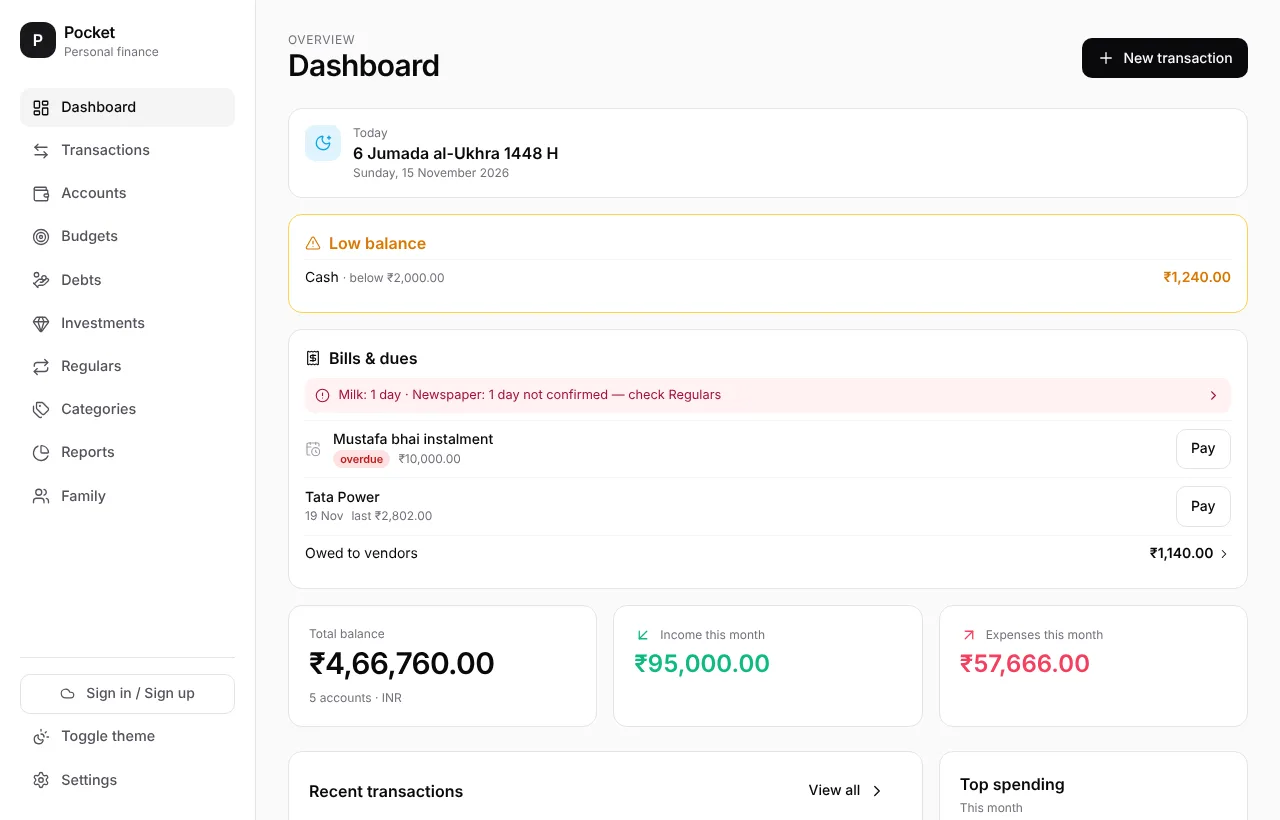
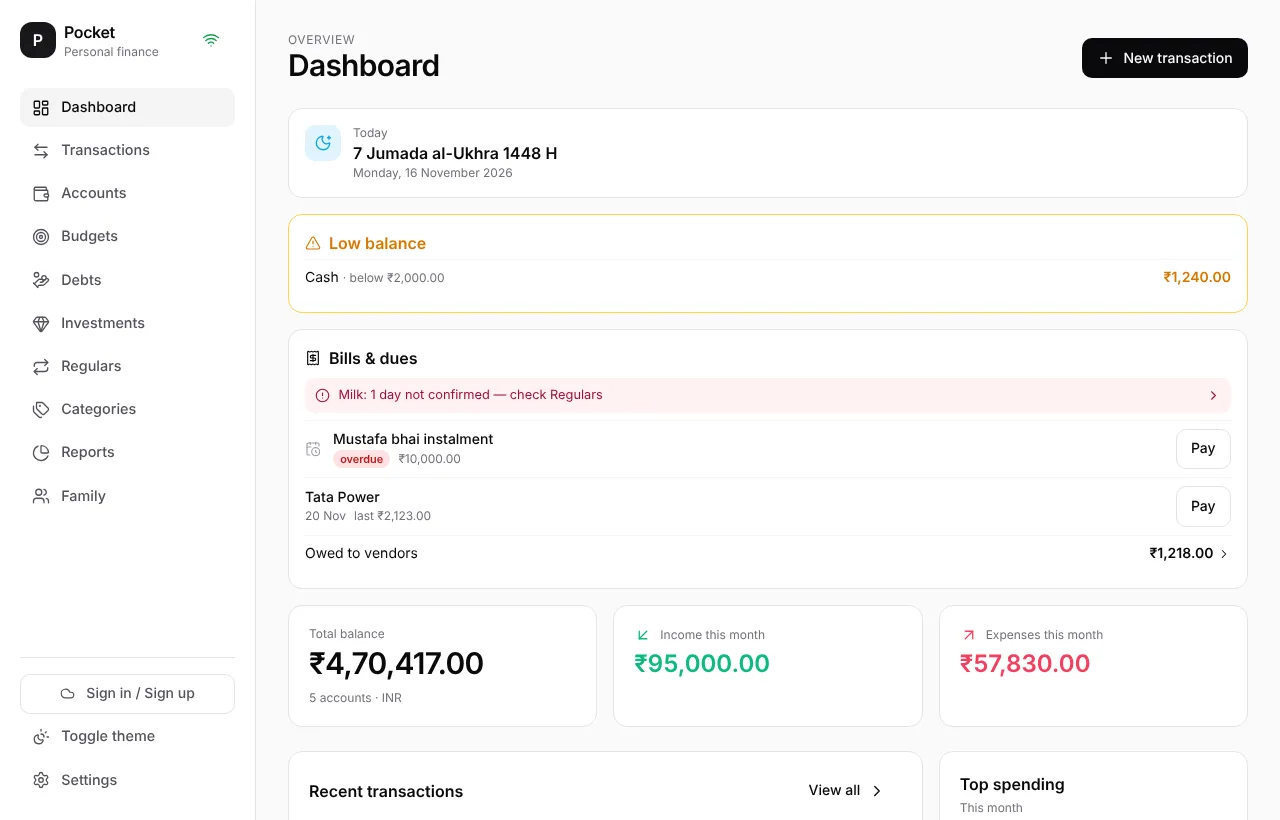
Investments: "Bought" / "Sold" instead of Buy / Sell; new homepage pictures
The buttons note a purchase or sale made elsewhere, so they now say so:
Bought / Sold, "Note a purchase · …", "Just bought it", and the help
says Pocket doesn't buy or sell anything itself. Homepage pictures
retaken from the demo (npm run shots).

Claude-Session: https://claude.ai/code/session_0179XaPTuzfqQxHAGVGkYim9

diff --git a/legacy-web/bundle.js b/legacy-web/bundle.js
@@ -12854,8 +12854,8 @@ This replaces your current grouping.`
         title: "Investments",
         intro: "The gold, silver and shares you own: how much, what you paid, and what it\u2019s worth today.",
         points: [
-          "<b>Add</b> it: pick gold, silver or shares. For gold and silver choose the purity; for shares type the company and its code (optional). Then choose <b>I already own it</b> or <b>Buying now</b>.",
-          "<b>Buy</b> and <b>Sell</b> move money between your account and your Investments account, with the grams or shares on the same entry. Add <b>Charges</b> (brokerage, making charges) and they count in what it cost you. Spending and budgets aren\u2019t affected.",
+          "<b>Add</b> it: pick gold, silver or shares. For gold and silver choose the purity; for shares type the company and its code (optional). Then choose <b>I already own it</b> or <b>Just bought it</b>.",
+          "<b>Bought</b> and <b>Sold</b> note a purchase or sale you made elsewhere (at a jeweller or through your broker): the money moves between your account and your Investments account, with the grams or shares on the same entry. Pocket doesn't buy or sell anything itself. Add <b>Charges</b> (brokerage, making charges) and they count in what it cost you. Spending and budgets aren\u2019t affected.",
           "Tap <b>Price</b> to enter today\u2019s price per gram or per share. Worth = how much you hold \xD7 price, and your total balance and net worth use it.",
           "For shares, tap <b>Dividend</b> when one is paid: it\u2019s saved as income and shown on the card.",
           "Set an alert, like <b>20%</b> gain or a target price. When the price reaches it you\u2019ll see it here and on the Dashboard.",
@@ -16798,8 +16798,8 @@ This replaces your current grouping.`
         ${st.dividends ? `<div class="text-xs text-emerald-600 mt-1 inv-dividends">Dividends received ${this.formatMoney(st.dividends, cur)}</div>` : ""}
         ${st.target !== null ? `<div class="text-xs text-zinc-500 mt-1 inv-target"><i data-lucide="bell" style="width:11px;height:11px;display:inline"></i> Alert at ${this.formatMoney(st.target, cur)} / ${k.per}${h.alert?.gainPct ? ` (+${h.alert.gainPct}%)` : ""}${st.reached ? ' \xB7 <span class="text-emerald-600">reached</span>' : ""}</div>` : ""}
         <div class="grid ${isShares ? "grid-cols-4" : "grid-cols-3"} gap-2 mt-3">
-          <button class="btn btn-outline btn-sm justify-center" onclick="window.__app.openModal('trade',{id:'${id}',mode:'buy'})"><i data-lucide="plus"></i> Buy</button>
-          <button class="btn btn-outline btn-sm justify-center" ${st.qty > 0 ? "" : "disabled"} onclick="window.__app.openModal('trade',{id:'${id}',mode:'sell'})"><i data-lucide="minus"></i> Sell</button>
+          <button class="btn btn-outline btn-sm justify-center" onclick="window.__app.openModal('trade',{id:'${id}',mode:'buy'})" title="Note something you bought elsewhere"><i data-lucide="plus"></i> Bought</button>
+          <button class="btn btn-outline btn-sm justify-center" ${st.qty > 0 ? "" : "disabled"} onclick="window.__app.openModal('trade',{id:'${id}',mode:'sell'})" title="Note something you sold elsewhere"><i data-lucide="minus"></i> Sold</button>
           <button class="btn btn-outline btn-sm justify-center" onclick="window.__app.openModal('holdingPrice',{id:'${id}'})"><i data-lucide="tag"></i> Price</button>
           ${isShares ? `<button class="btn btn-outline btn-sm justify-center inv-dividend-btn" onclick="window.__app.openModal('trade',{id:'${id}',mode:'dividend'})"><i data-lucide="banknote"></i> Dividend</button>` : ""}
         </div>
@@ -16892,7 +16892,7 @@ This replaces your current grouping.`
           </select>
         </div>
 
-        <div class="grid grid-cols-2 gap-2 mb-3">${how("own", "I already own it")}${how("buy", "Buying now")}</div>
+        <div class="grid grid-cols-2 gap-2 mb-3">${how("own", "I already own it")}${how("buy", "Just bought it")}</div>
 
         <div class="grid grid-cols-2 gap-3 mb-3">
           <div>
@@ -17038,7 +17038,7 @@ This replaces your current grouping.`
       return `
       <form onsubmit="window.__app.submitTrade(event,'${Html.escape(h.id)}','${sell ? "sell" : "buy"}')" class="p-5 trade-form">
         <div class="flex items-center justify-between mb-2">
-          <h3 class="text-lg font-semibold">${sell ? "Sell" : "Buy"} ${Html.escape(h.name)}</h3>${close}
+          <h3 class="text-lg font-semibold">${sell ? "Note a sale" : "Note a purchase"} \xB7 ${Html.escape(h.name)}</h3>${close}
         </div>
         <div class="text-xs text-zinc-500 mb-3">You hold ${HoldingService.qtyText(h, st.qty)} \xB7 average cost ${this.#fx.formatMoney(st.avgCost, h.currency)} / ${k.per}</div>
         <div class="grid grid-cols-3 gap-3 mb-3">
@@ -17070,7 +17070,7 @@ This replaces your current grouping.`
           </div>
         </div>
         <label class="flex items-center gap-2 text-sm mb-4"><input type="checkbox" name="setPrice" checked> Also use this as today\u2019s price</label>
-        ${footer(sell ? "Sell" : "Buy")}
+        ${footer(sell ? "Save sale" : "Save purchase")}
       </form>`;
     }
   };
@@ -27542,7 +27542,7 @@ Leave empty to use your own name.`,
       const qty = form.querySelector('[name="grams"]');
       if (qty) qty.step = shares ? "1" : "0.001";
     }
-    /** Add-investment form: "I already own it" / "Buying now". */
+    /** Add-investment form: "I already own it" / "Just bought it". */
     onHoldingHowChange(radio) {
       const form = radio.form;
       for (const el of form.querySelectorAll("[data-how]")) el.style.display = el.dataset.how === radio.value ? "" : "none";

diff --git a/legacy-web/src/ui/views/InvestmentsView.js b/legacy-web/src/ui/views/InvestmentsView.js
@@ -103,8 +103,8 @@ export class InvestmentsView extends BaseView {
         ${st.dividends ? `<div class="text-xs text-emerald-600 mt-1 inv-dividends">Dividends received ${this.formatMoney(st.dividends, cur)}</div>` : ''}
         ${st.target !== null ? `<div class="text-xs text-zinc-500 mt-1 inv-target"><i data-lucide="bell" style="width:11px;height:11px;display:inline"></i> Alert at ${this.formatMoney(st.target, cur)} / ${k.per}${h.alert?.gainPct ? ` (+${h.alert.gainPct}%)` : ''}${st.reached ? ' · <span class="text-emerald-600">reached</span>' : ''}</div>` : ''}
         <div class="grid ${isShares ? 'grid-cols-4' : 'grid-cols-3'} gap-2 mt-3">
-          <button class="btn btn-outline btn-sm justify-center" onclick="window.__app.openModal('trade',{id:'${id}',mode:'buy'})"><i data-lucide="plus"></i> Buy</button>
-          <button class="btn btn-outline btn-sm justify-center" ${st.qty > 0 ? '' : 'disabled'} onclick="window.__app.openModal('trade',{id:'${id}',mode:'sell'})"><i data-lucide="minus"></i> Sell</button>
+          <button class="btn btn-outline btn-sm justify-center" onclick="window.__app.openModal('trade',{id:'${id}',mode:'buy'})" title="Note something you bought elsewhere"><i data-lucide="plus"></i> Bought</button>
+          <button class="btn btn-outline btn-sm justify-center" ${st.qty > 0 ? '' : 'disabled'} onclick="window.__app.openModal('trade',{id:'${id}',mode:'sell'})" title="Note something you sold elsewhere"><i data-lucide="minus"></i> Sold</button>
           <button class="btn btn-outline btn-sm justify-center" onclick="window.__app.openModal('holdingPrice',{id:'${id}'})"><i data-lucide="tag"></i> Price</button>
           ${isShares ? `<button class="btn btn-outline btn-sm justify-center inv-dividend-btn" onclick="window.__app.openModal('trade',{id:'${id}',mode:'dividend'})"><i data-lucide="banknote"></i> Dividend</button>` : ''}
         </div>

diff --git a/legacy-web/src/ui/components/HelpGuide.js b/legacy-web/src/ui/components/HelpGuide.js
@@ -35,8 +35,8 @@ export class HelpGuide {
       title: 'Investments',
       intro: 'The gold, silver and shares you own: how much, what you paid, and what it’s worth today.',
       points: [
-        '<b>Add</b> it: pick gold, silver or shares. For gold and silver choose the purity; for shares type the company and its code (optional). Then choose <b>I already own it</b> or <b>Buying now</b>.',
-        '<b>Buy</b> and <b>Sell</b> move money between your account and your Investments account, with the grams or shares on the same entry. Add <b>Charges</b> (brokerage, making charges) and they count in what it cost you. Spending and budgets aren’t affected.',
+        '<b>Add</b> it: pick gold, silver or shares. For gold and silver choose the purity; for shares type the company and its code (optional). Then choose <b>I already own it</b> or <b>Just bought it</b>.',
+        '<b>Bought</b> and <b>Sold</b> note a purchase or sale you made elsewhere (at a jeweller or through your broker): the money moves between your account and your Investments account, with the grams or shares on the same entry. Pocket doesn\'t buy or sell anything itself. Add <b>Charges</b> (brokerage, making charges) and they count in what it cost you. Spending and budgets aren’t affected.',
         'Tap <b>Price</b> to enter today’s price per gram or per share. Worth = how much you hold × price, and your total balance and net worth use it.',
         'For shares, tap <b>Dividend</b> when one is paid: it’s saved as income and shown on the card.',
         'Set an alert, like <b>20%</b> gain or a target price. When the price reaches it you’ll see it here and on the Dashboard.',

diff --git a/legacy-web/src/ui/modals/TradeModal.js b/legacy-web/src/ui/modals/TradeModal.js
@@ -72,7 +72,7 @@ export class TradeModal {
     return `
       <form onsubmit="window.__app.submitTrade(event,'${Html.escape(h.id)}','${sell ? 'sell' : 'buy'}')" class="p-5 trade-form">
         <div class="flex items-center justify-between mb-2">
-          <h3 class="text-lg font-semibold">${sell ? 'Sell' : 'Buy'} ${Html.escape(h.name)}</h3>${close}
+          <h3 class="text-lg font-semibold">${sell ? 'Note a sale' : 'Note a purchase'} · ${Html.escape(h.name)}</h3>${close}
         </div>
         <div class="text-xs text-zinc-500 mb-3">You hold ${HoldingService.qtyText(h, st.qty)} · average cost ${this.#fx.formatMoney(st.avgCost, h.currency)} / ${k.per}</div>
         <div class="grid grid-cols-3 gap-3 mb-3">
@@ -104,7 +104,7 @@ export class TradeModal {
           </div>
         </div>
         <label class="flex items-center gap-2 text-sm mb-4"><input type="checkbox" name="setPrice" checked> Also use this as today’s price</label>
-        ${footer(sell ? 'Sell' : 'Buy')}
+        ${footer(sell ? 'Save sale' : 'Save purchase')}
       </form>`;
   }
 }

diff --git a/legacy-web/src/ui/modals/InvestmentModal.js b/legacy-web/src/ui/modals/InvestmentModal.js
@@ -4,7 +4,7 @@
  * New: what it is (gold / silver / shares), purity or company and code,
  * where it's kept, then either
  *   "I already own it" — how much, what you paid (optional), today's price, or
- *   "Buying now"       — how much, price each, charges, pay from (a transfer).
+ *   "Just bought it"   — how much, price each, charges, pay from (a transfer).
  * Edit: name, what you already owned before using Pocket, remove.
  *
  * opts: { id?: string }
@@ -90,7 +90,7 @@ export class InvestmentModal {
           </select>
         </div>
 
-        <div class="grid grid-cols-2 gap-2 mb-3">${how('own', 'I already own it')}${how('buy', 'Buying now')}</div>
+        <div class="grid grid-cols-2 gap-2 mb-3">${how('own', 'I already own it')}${how('buy', 'Just bought it')}</div>
 
         <div class="grid grid-cols-2 gap-3 mb-3">
           <div>

diff --git a/legacy-web/src/app.js b/legacy-web/src/app.js
@@ -2806,7 +2806,7 @@ export class Application {
     if (qty) qty.step = shares ? '1' : '0.001';
   }
 
-  /** Add-investment form: "I already own it" / "Buying now". */
+  /** Add-investment form: "I already own it" / "Just bought it". */
   onHoldingHowChange(radio) {
     const form = radio.form;
     for (const el of form.querySelectorAll('[data-how]')) el.style.display = el.dataset.how === radio.value ? '' : 'none';
